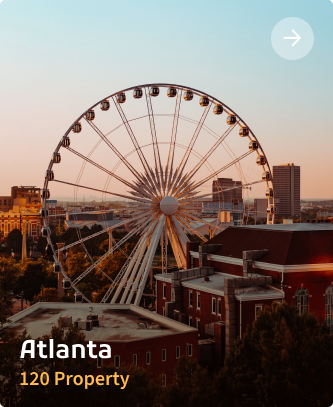
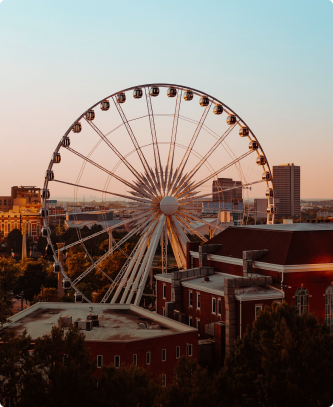
Discover and statistics sections

Changed region(s): [[0.0601, 0.8256, 0.3303, 0.8845], [0.8108, 0.0295, 0.961, 0.1474], [0.0601, 0.914, 0.3904, 0.973]]

diff --git a/src/Components/Reviews.js b/src/Components/Reviews.js
@@ -1,27 +1,79 @@
-import React from 'react';
+import React, { useEffect, useRef } from 'react';
 // import victor from '../img/Home/victor.jpg';
 import Review from './Rev';
+import Leftright from './Button/Leftright';
 
 function Reviews() {
+
+
+    const scrollContainerRef = useRef(null);
+
+    const scrollLeft = () => {
+        if (scrollContainerRef.current) {
+            scrollContainerRef.current.scrollBy({
+                left: -100, // Adjust the scroll distance as needed
+                behavior: 'smooth',
+            });
+        }
+    };
+
+
+    const scrollRight = () => {
+        if (scrollContainerRef.current) {
+            scrollContainerRef.current.scrollBy({
+                left: 100, // Adjust the scroll distance as needed
+                behavior: 'smooth',
+            });
+        }
+    };
+
+    // useEffect(() => {
+    //     const scrollBtn = (e) => {
+    //         if (e.key === 'ArrowLeft') {
+    //             // Scroll to the left
+    //             window.scrollBy({ left: -100, behavior: 'smooth' })
+    //         } else if (e.key === 'ArrowRight') {
+    //             // Scroll to the right
+    //             window.scrollBy({ right: 100, behavior: 'smooth' })
+    //         }
+    //     }
+
+
+
+    //     // Add event listener for keydown
+    //     window.addEventListener('keydown', scrollBtn)
+
+    //     // Clean up the event listener on unmount
+    //     return () => {
+    //         window.removeEventListener('keydown', scrollBtn)
+    //     }
+    // }, []);
+
+
+
     return (
         <section className="reviews bg-[#F3E8E2] h-fit py-[95px]">
-            <div className="wrapper container">
-                <div className="review">
-                    <h1 className='text-[24px] font-bold  mb-8 leading-[30px] md:text-[35px] md:leading-[50px] my-4 md:max-w-[550px]'>What our customers say about us</h1>
+            <div ref={scrollContainerRef} className="wrapper pl-[32px] pr-[32px] lg:first:pl-[80px]  ">
+                <div className="top flex items-center justify-between container">
+                    <h1 className='text-[24px] text-left font-bold  mb-8 leading-[30px] md:text-[35px] md:leading-[50px] my-4 md:max-w-[550px]'>What our customers say about us</h1>
+                    <Leftright
+                        left={scrollLeft}
+                        right={scrollRight} />
+                </div>
+                <div className="review flex flex-col gap-14 md:flex-row flex-shrink:0 lg:gap-10 lg:Last:pr-[30px] xl:last:pr-[100px] overflow-scroll scrollbar-hide">
+                    {Review.map(({ name, title, pix, msg, id }) => (
 
-                    {Review.map(({ name, title, pix, msg, index }) => (
 
-
-                        <div key={index} className="bio flex flex-col mb-14 ">
-                            <p className='text-sm text-link text-left bg-gradient-to-bl from-[#ECC8B7] to-[#F4DBCE] rounded-[45px] rounded-bl-[0px] mb-4 p-[30px]  md:text-[15px] lg:max-w-[450px]'>{msg}</p>
-                            <div className="bottom flex items-center  gap-x-3                   ">
-                                <div className="head border-[#F4DACD] overflow-hidden border-[2px]  rounded-full w-[45px] h-[45px] ">
+                        <div key={id} className="bio flex flex-col flex-shrink-0 max-w-[350px]">
+                            <p className='text-sm text-link text-left bg-gradient-to-bl from-[#ECC8B7] to-[#F4DBCE] rounded-[45px] rounded-bl-[0px] mb-4 p-[30px] md:text-[15px] lg:max-w-[450px]'>{msg}</p>
+                            <div className="bottom flex items-center  gap-x-3">
+                                <div className="head border-[#F4DACD] overflow-hidden border-[2px] rounded-full w-[45px] h-[45px] ">
                                     <img src={pix} className=' w-[40px] ' alt="{name} headshot" />
                                 </div>
 
                                 <div className="info flex flex-col items-start">
-                                    <h1 className='text-[17px] font-bold md:text-[35px]'>{name}</h1>
-                                    <p className='text-[13px] text-link text-left md:text-[15px]'>{title}</p>
+                                    <h1 className='text-[17px] font-bold md:text-[18px]'>{name}</h1>
+                                    <p className='text-[13px] text-link text-left '>{title}</p>
                                 </div>
                             </div>
 

diff --git a/src/Components/Neighbourhoods.js b/src/Components/Neighbourhoods.js
@@ -1,0 +1,33 @@
+import React from 'react';
+import new_york from '../../src/img/Home/NY.png';
+import Neighbourhood_location from './Neighbourhood_location';
+import { ArrowSmallRightIcon } from '@heroicons/react/24/solid';
+
+
+function Neighbourhoods() {
+    return (
+        <section className="Neighorhoods py-[95px] ">
+            <div className="wrapper flex flex-col items-center">
+
+                <div className="header mb-8 text-center container">
+                    <h1 className='text-[24px]  md:text-[35px] my-4 font-bold '>Discover The Neighborhoods</h1>
+                </div>
+                <div className="locations flex flex-col gap-6 lg:flex-row container" >
+                    {Neighbourhood_location.map(({ pix, title, num_property, id }) => (
+                        <div key={id} className="New_york w-[250px] h-[407px] rounded-md bg-1why1 bg-cover  bg-no-repeat bg-top-left py-10 lg:pt-20 lg:h-[350px] relative " style={{ backgroundImage: `url(${pix})` }}>
+                            <ArrowSmallRightIcon className='w-[30px] bg-white bg-opacity-[50%] cursor-pointer text-white p-1 rounded-full absolute top-4 right-4' />
+                            <div className="details absolute left-4 bottom-4 text-left">
+                                <h1 className='text-[18px] font-bold text-white'>{title}</h1>
+                                <p className='text-secondary text-[12px]'>{num_property}ty</p>
+                            </div>
+                        </div>
+                    ))}
+                </div>
+
+            </div>
+        </section>
+
+    )
+}
+
+export default Neighbourhoods

diff --git a/src/Components/Statistics.js b/src/Components/Statistics.js
@@ -1,0 +1,28 @@
+import React from 'react'
+
+function Statistics() {
+    return (
+        <section className="statistics py-[95px]">
+            <div className="wrapper container flex flex-col gap-y-6 lg:flex-row lg:justify-between lg:w-[60%]">
+                <div className="property_sales ">
+                    <h1 className='text-[45px] font-bold'>56,180</h1>
+                    <p className='text-link'>In property sales</p>
+                </div>
+                <div className="customer_satisfaction ">
+                    <h1 className='text-[45px] font-bold'>99%</h1>
+                    <p className='text-link'>Customer satisfaction</p>
+                </div>
+                <div className="Property_transaction">
+                    <h1 className='text-[45px] font-bold'>25K+</h1>
+                    <p className='text-link'>Property Transaction</p>
+                </div>
+                <div className="Price_Reduce">
+                    <h1 className='text-[45px] font-bold'>2,918</h1>
+                    <p className='text-link'>Price Reduce</p>
+                </div>
+            </div>
+        </section>
+    )
+}
+
+export default Statistics

diff --git a/src/Components/Button/Leftright.js b/src/Components/Button/Leftright.js
@@ -1,0 +1,32 @@
+import React, { useRef } from 'react';
+import { ArrowSmallLeftIcon } from '@heroicons/react/24/solid';
+import { ArrowSmallRightIcon } from '@heroicons/react/24/solid';
+
+function Leftright({ left, right }) {
+
+
+    // const scrollLeft = () => {
+    //     window.scrollBy({ left: -100, behavior: 'smooth' })
+    // }
+    // const scrollRight = () => {
+    //     window.scrollBy({ left: 100, behavior: 'smooth' })
+    // }
+
+    return (
+        <div className='ScrollLeftRight flex items-center gap-4'>
+
+            {/* left scroll button */}
+            <div onClick={left} className="left bg-white text-secondary p-2 cursor-pointer rounded-full w-[40px] hover:bg-primary hover:text-secondary transition-all ease-in-out 3000">
+                <ArrowSmallLeftIcon />
+            </div>
+
+            {/* right scroll button */}
+            <div onClick={right} className="right bg-secondary p-2 cursor-pointer rounded-full w-[40px] hover:bg-primary hover:text-secondary transition-all ease-in-out 3000 ">
+                <ArrowSmallRightIcon />
+
+            </div>
+        </div>
+    )
+}
+
+export default Leftright

diff --git a/src/Components/Neighbourhood_location.js b/src/Components/Neighbourhood_location.js
@@ -1,0 +1,38 @@
+import React from 'react';
+import NY from '../img/Home/NY.png';
+import Atlanta from '../img/Home/Atlanta.png';
+import Singapore from '../img/Home/Singapore.png';
+import Paris from '../img/Home/Paris.png';
+
+
+const Neighbourhood_location = [
+    {
+        "id": 1,
+        "pix": NY,
+        "title": "New York",
+        "num_property": "250 Property",
+    },
+
+    {
+        "id": 2,
+        "pix": Atlanta,
+        "title": "Atlanta",
+        "num_property": "120 Property",
+    },
+
+    {
+        "id": 3,
+        "pix": Singapore,
+        "title": "Singapore",
+        "num_property": "53 Property",
+    },
+    {
+        "id": 4,
+        "pix": Paris,
+        "title": "Paris",
+        "num_property": "99 Property",
+    },
+
+]
+
+export default Neighbourhood_location

diff --git a/src/Components/WhyUs.js b/src/Components/WhyUs.js
@@ -4,7 +4,7 @@ function WhyUs() {
     return (
         <section className="whyUs h-[fit] py-[110px] lg:py-[140px] ">
             <div className="wrapper  flex flex-col items-center container">
-                <div className="header  flex flex-col items-center">
+                <div className="header flex flex-col items-center">
                     <p className='text-sm uppercase tracking-[4px] md:tracking-[6px] lg:text-md 2xl:text-lg'>|<span className='text-secondary'>03</span> Why Choose|</p>
                     <h1 className='text-[24px] font-bold  mb-12 leading-[30px] md:text-[35px] md:leading-[50px] my-4 md:max-w-[550px] '>Why Choose Our Properties Of Real Estate Industries</h1>
                 </div>

diff --git a/src/Components/Pages/Home.js b/src/Components/Pages/Home.js
@@ -7,6 +7,8 @@ import About from '../About'
 import Services from '../Services'
 import ToTop from '../Button/ToTop'
 import Reviews from '../Reviews'
+import Statistics from '../Statistics'
+import Neighbourhoods from '../Neighbourhoods'
 
 function Home() {
     return (
@@ -18,6 +20,8 @@ function Home() {
             <About />
             <Services />
             <Reviews />
+            <Statistics />
+            <Neighbourhoods />
         </div>
     )
 }

diff --git a/tailwind.config.js b/tailwind.config.js
@@ -49,9 +49,22 @@ module.exports = {
       center: true,
     },
 
+    cont: {
+      'padding-left': {
+        DEFAULT: '1rem',
+        sm: '2rem',
+        lg: '5rem',
+        xl: '7rem',
+        // '2xl': '8rem',
+      },
+
+      center: true,
+    },
 
   },
 
-  plugins: [],
+  plugins: [
+    require('tailwind-scrollbar-hide')
+  ],
 }
 
